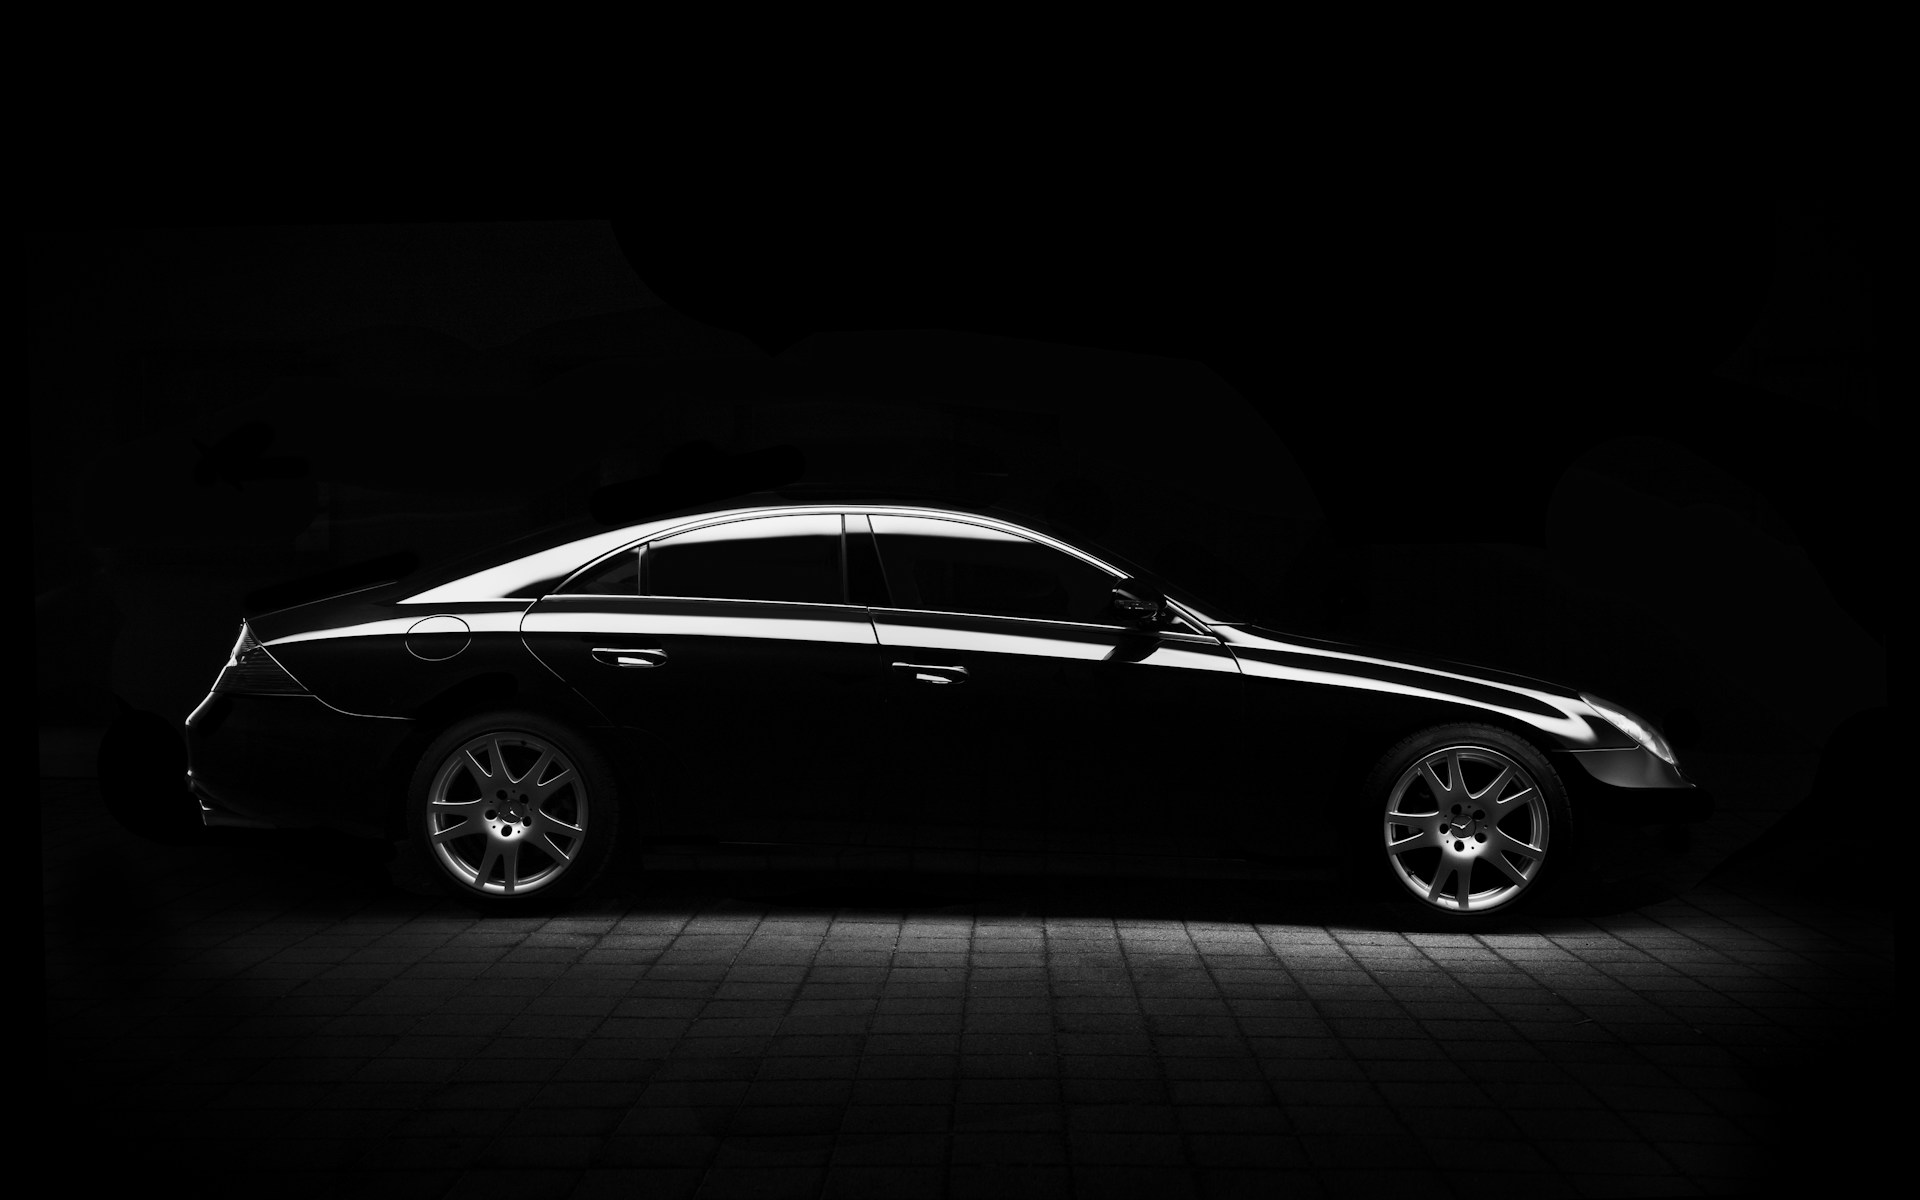
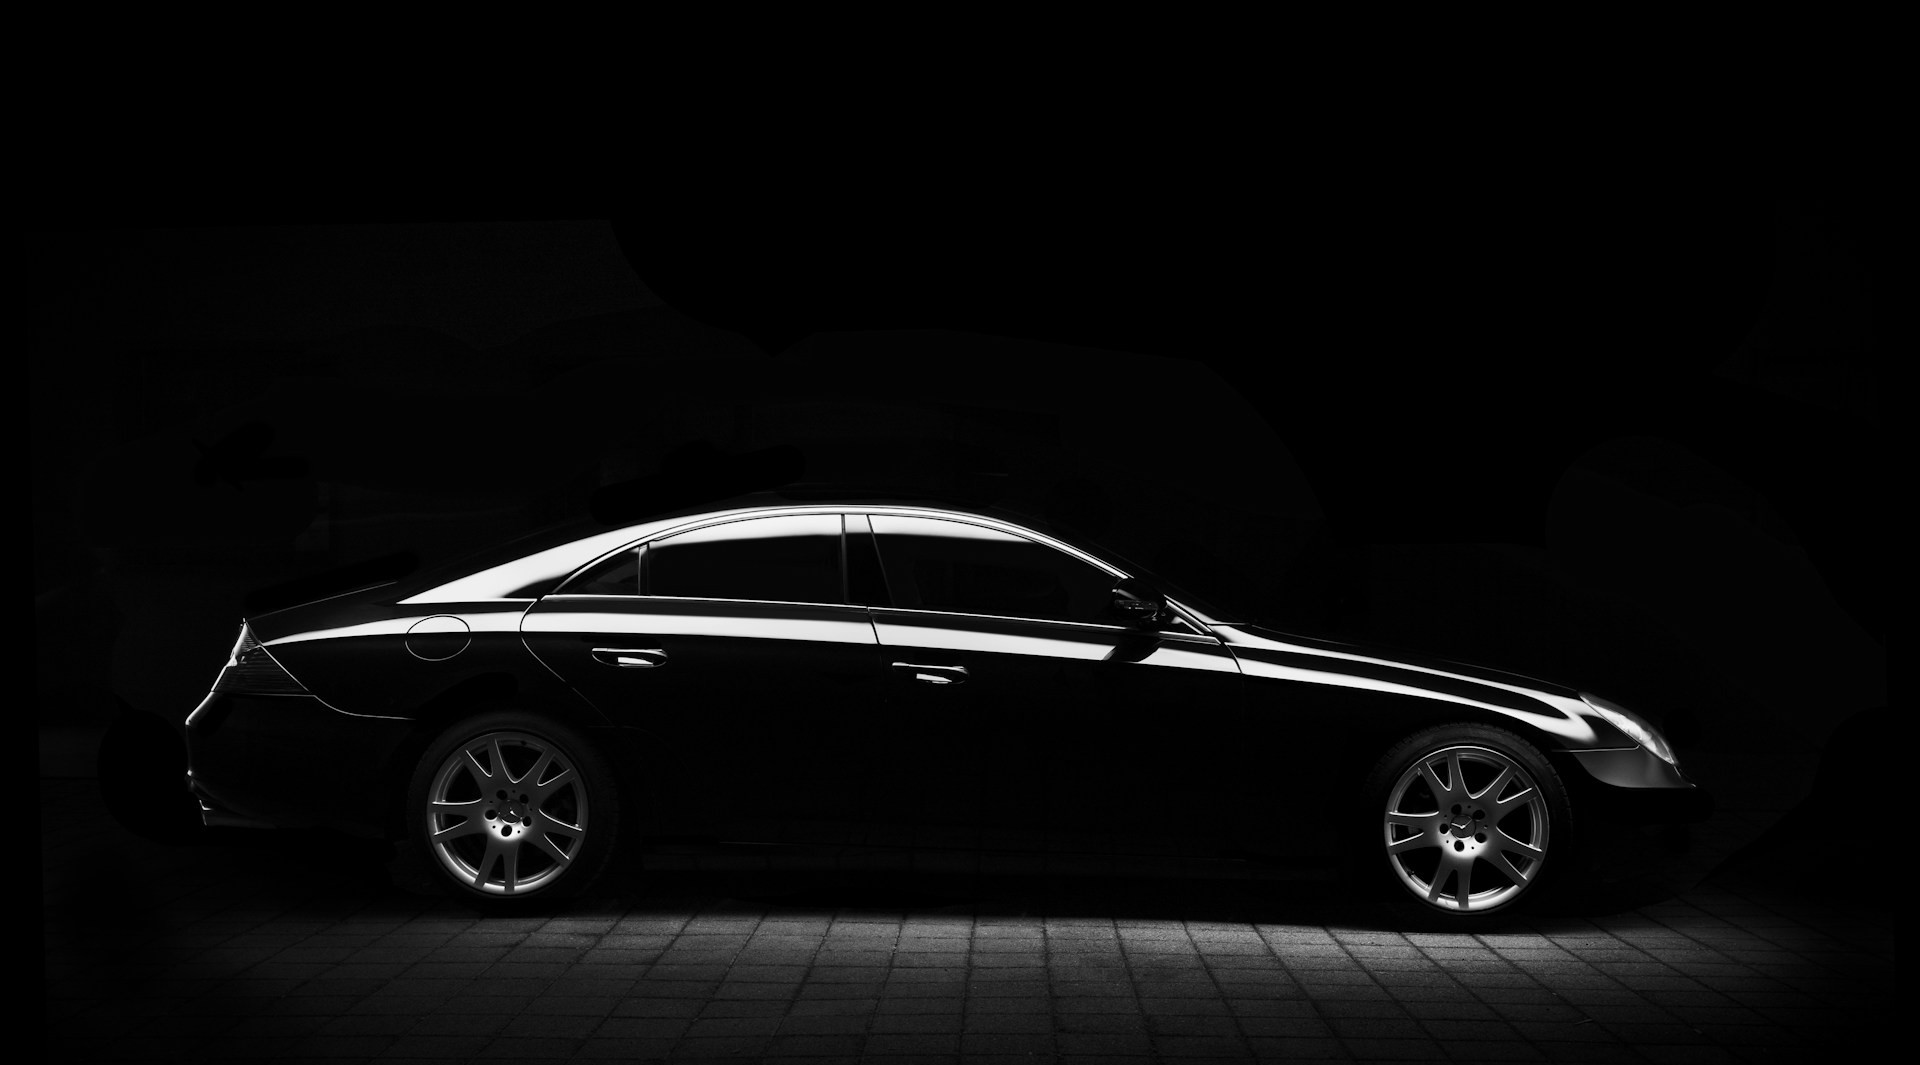
Oppdater hero-bilde (beskjært) og bytt til venstre-til-hoyre gradient

Changed region(s): [[0.0938, 0.4028, 0.9375, 0.9606]]

diff --git a/index.html b/index.html
@@ -15,7 +15,7 @@
 <link href="https://fonts.googleapis.com/css2?family=Schibsted+Grotesk:wght@400;500;600;700;800&display=swap" rel="stylesheet"/>
 <link href="style.css" rel="stylesheet" type="text/css"/>
 <style>body{font-family:'Schibsted Grotesk',sans-serif;}
-.section.hero.v1{background-image:linear-gradient(rgba(0,0,0,.75),rgba(0,0,0,.2) 40%,rgba(0,0,0,.6)),url("assets/hero-car.jpg");background-position:0 0,50% 35%;background-repeat:repeat,no-repeat;background-size:auto,cover;}
+.section.hero.v1{background-image:linear-gradient(to right,rgba(0,0,0,.85) 0%,rgba(0,0,0,.72) 32%,rgba(0,0,0,.3) 58%,rgba(0,0,0,0) 80%),url("assets/hero-car.jpg");background-position:0 0,50% 50%;background-repeat:repeat,no-repeat;background-size:auto,cover;}
 .cta-section.cta-v1{background-image:linear-gradient(to right,#000,rgba(0,0,0,.3) 81%),url("assets/cta-car.jpg");background-position:0 0,50%;background-repeat:repeat,no-repeat;background-size:auto,cover;}</style>
 <script type="text/javascript">!function(o,c){var n=c.documentElement,t=" w-mod-";n.className+=t+"js",("ontouchstart"in o||o.DocumentTouch&&c instanceof DocumentTouch)&&(n.className+=t+"touch")}(window,document);</script>
 <link href="assets/favicon.svg" rel="icon" type="image/svg+xml"/>
